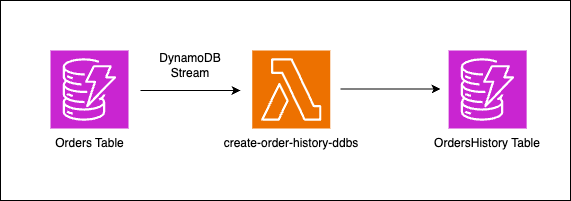
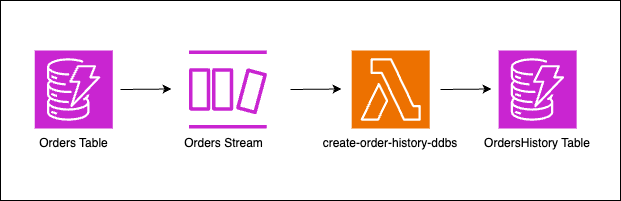
Applied updates following initial feedback.

Changed region(s): [[0.0298, 0.2388, 0.9527, 0.6567], [0.2977, 0.6866, 0.9527, 0.7463], [0.0595, 0.6866, 0.2382, 0.7463]]

diff --git a/content/change-data-capture/setup/aws-ws-event.en.md b/content/change-data-capture/setup/aws-ws-event.en.md
@@ -10,22 +10,27 @@ chapter: true
 1. If you are provided a one-click join link, skip to step 3.
 
 2. Visit [https://catalog.us-east-1.prod.workshops.aws](https://catalog.us-east-1.prod.workshops.aws). If you attended any other workshop earlier on this portal, please logout first. Click on **Get Started** on the right hand side of the window.
+
 ![Workshop Studio Landing Page](/static/images/aws-ws-event1.png)
 
 3. On the next, **Sign in** page, choose **Email One-Time Passcode (OTP)** to sign in to your workshop page.
+
 ![Sign in page](/static/images/aws-ws-event2.png)
 
 4. Provide an email address to receive a one-time passcode.
+
 ![Email address input](/static/images/aws-ws-event3.png)
 
 5. Enter the passcode that you received in the provided email address, and click **Sign in**.
 
 6. Next, in the textbox, enter the event access code (eg: abcd-012345-ef) that you received from the event facilitators. If you are provided a one-click join link, you will be redirected to the next step automatically.
+
 ![Event access code](/static/images/aws-ws-event4.png)
 
 7. Select on **I agree with the Terms and Conditions** on the bottom of the next page and click **Join event** to continue to the event dashboard.
 
 8. On the event dashboard, click on **Open AWS console** to federate into AWS Management Console in a new tab. On the same page, click **Get started** to open the workshop instructions.
+
 ![Event dashboard](/static/images/aws-ws-event5.png)
 
 Now that you are set up, continue on to: :link[2. Scenario Overview]{href="/change-data-capture/overview"}.

diff --git a/content/change-data-capture/setup/user-account.en.md b/content/change-data-capture/setup/user-account.en.md
@@ -10,6 +10,8 @@ chapter: true
 
 ## Create a Cloud9 Environment
 
+::alert[To complete the steps in these labs, you need an IAM role that has the privileges to create, update and delete AWS Cloud9 environments, Lambda functions, DynamoDB tables, IAM roles, Kinesis Data Streams and DynamoDB Streams]
+
 * Log into the AWS Management Console, go to the AWS Cloud9 service dashboard then select **Create environment**.
 
 ![Create Cloud9 environment](/static/images/change-data-capture/setup/cloud9-create-env.png)
@@ -25,5 +27,20 @@ chapter: true
 * Wait for creation of your Cloud9 environment to complete then select **Open** to launch your Cloud9 evironment.
 
 ![Launch Cloud9 environment](/static/images/change-data-capture/setup/cloud9-launch-env.png)
+
+Start a command line terminal in Cloud9 and set up the `Region` and `Account ID` environment variables.
+
+```bash
+export REGION={your aws region} &&
+export ACCOUNT_ID={your aws account ID}
+```
+
+Install jq on your AWS Cloud9 environment using the command below.
+
+```bash
+sudo yum install jq -y
+```
+
+::alert[*After completing the workshop, remember to complete the :link[Clean Up]{href="/change-data-capture/clean-up"} section to remove AWS resources that you no longer require.*]
 
 Now that your environment is set up, continue on to the :link[2. Scenario Overview]{href="/change-data-capture/overview"}.  

diff --git a/content/change-data-capture/ex2/simulate-order-updates.en.md b/content/change-data-capture/ex2/simulate-order-updates.en.md
@@ -356,4 +356,4 @@ Explore the items on the **Orders** and **OrdersHistory** tables to see the resu
 
 ![OrdersHistory Table Items](/static/images/change-data-capture/ex2/orders-history-two.png)
 
-::alert[_The order of updates to the Orders table is not preserved by Kinesis Data streams when changes are sent to the create order history lambda function. Hence if the order in which changes occur on the Orders table is important for your use case, DynamoDB Streams would be the preferred method to record changes from the Orders to the OrdersHistory table._]
+::alert[**Note:** The order of updates to the Orders table is not preserved by Kinesis Data streams when changes are sent to the create order history lambda function. If you need to record the sequence that updates were made to items on the Orders table, you can configure the precision of the ApproximateCreationDateTime for your Kinesis Data stream. Once this is done, stream records written to your Kinesis Data stream will have an approximate creation date time attribute that can be used to record the sequence of updates to items on the Orders table. See [How Kinesis Data Streams works with DynamoDB](https://docs.aws.amazon.com/amazondynamodb/latest/developerguide/kds.html#kds_howitworks) for more information on how it works.]

diff --git a/content/change-data-capture/overview/index.en.md b/content/change-data-capture/overview/index.en.md
@@ -5,11 +5,13 @@ weight: 5
 chapter: true
 ---
 
-Imagine you have an e-commerce website where customers place orders for different items. The website is backed by Amazon DynamoDB and you need to keep a record of all events that occur from the moment an order is placed until all items on the order are delivered to the customer.
+Imagine you have an e-commerce website where customers place orders for different items. The website relies on Amazon DynamoDB and it requires logging of all events from when an order is placed until the item delivered.
 
-Orders placed on your website can have one of the follow statuses - `ACTIVE`, `PLACED`, `COMPLETE` or `CANCELLED`; but you only want to keep the current view of customers' orders on the main database table used by your application.
+Website Requirements:
 
-Each order has a list containing one of more order items. Each order item also has a status attribute.
+* The status of orders placed on your website can be `ACTIVE`, `PLACED`, `COMPLETE` or `CANCELLED`.
+* You need to keep the current view of customers' orders on the main database table used by your application.
+* Each order as a `status` attribute and contains a list of one or more items.
 
 In JSON format, an item on the orders table has the following attributes.
 

diff --git a/content/change-data-capture/overview/create-tables.en.md b/content/change-data-capture/overview/create-tables.en.md
@@ -1,13 +1,22 @@
 ---
 title: "Create The DynamoDB Tables"
 date: 2023-12-01T00:00:00-00:00
-weight: 15
+weight: 10
 chapter: true
 ---
 
-Create the DynamoDB tables you will use during the labs for this workshop.
+In this section you create the DynamoDB tables you will use during the labs for this workshop.
 
-Copy the **create-table** commands below and paste them into your command terminal. Execute the commands to to create two tables named Orders and OrdersHistory.
+In the commands below, the **create-table** AWS CLI command is used to create two new tables called Orders and OrdersHistory.
+
+It will create the Orders table in provisioned capacity mode to have 5 read capacity units (RCU), 5 write capacity uints (WCU) and a partition key named `id`.
+
+It will also create the OrdersHistory table in provisioned capacity mode to have 5 RCU, 5 WCU, a partition key named `pk` and a sort key named `sk`.
+
+For convenience, the output of the CLI command is stored to a file called `output.log`.
+
+* Copy the **create-table** commands below and paste them into your command terminal. 
+* Execute the commands to to create two tables named Orders and OrdersHistory.
 
 ```bash
 aws dynamodb create-table \

diff --git a/content/change-data-capture/ex1/enable-ddb-streams.en.md b/content/change-data-capture/ex1/enable-ddb-streams.en.md
@@ -5,14 +5,14 @@ weight: 105
 chapter: true
 ---
 
-When enabling DynamoDB streams on a table, you can choose to record one of the following.
+When [enabling DynamoDB streams](https://docs.aws.amazon.com/amazondynamodb/latest/developerguide/Streams.html#Streams.Enabling) on a table, you can choose to record one of the following.
 
 * **Key attributes** only - the key attributes of the item being updated
 * **New image** - the new image of an item after it is updated
 * **Old image** - the original image of an item before it was updated
 * **New and old images** - the before and after image of an item following an update. 
 
-You will set the DynamoDB stream on the Orders table to only hold the image of an item before an update was performed.
+Since the requirement for this scenario is to retain only the current view of orders on the Orders table, you need to set the DynamoDB stream for the table to only hold the **old image** of items when updates are performed. The **new image** does not need to be written to the stream since it is not required.
 
 Enable DynamoDB streams on the Orders table by running the AWS CLI command below.
 

diff --git a/content/change-data-capture/index.en.md b/content/change-data-capture/index.en.md
@@ -4,7 +4,7 @@ chapter: true
 description: "200 level: Hands-on exercises with DynamoDB Streams and Kinesis Data Streams with Kinesis Analytics."
 weight: 2
 ---
-In this workshop, you will learn how to perform change data capture of item level changes on DynamoDB tables using [Amazon DynamoDB Streams](https://docs.aws.amazon.com/amazondynamodb/latest/developerguide/Streams.html) and [Amazon Kinesis Data Streams](https://docs.aws.amazon.com/amazondynamodb/latest/developerguide/kds.html). Using this technique, you can build event driven solutions that are triggered by item level changes to data you have stored on DynamoDB.
+In this workshop, you will learn how to perform change data capture of item level changes on DynamoDB tables using [Amazon DynamoDB Streams](https://docs.aws.amazon.com/amazondynamodb/latest/developerguide/Streams.html) and [Amazon Kinesis Data Streams](https://docs.aws.amazon.com/amazondynamodb/latest/developerguide/kds.html). This technique allows you to develop event-driven solutions that are initiated by alterations made to item-level data stored in DynamoDB.
 
 Here is what this workshop includes:
 

diff --git a/content/change-data-capture/ex2/index.en.md b/content/change-data-capture/ex2/index.en.md
@@ -5,7 +5,7 @@ weight: 15
 chapter: true
 ---
 
-Amazon Kinesis Data Streams can be used to collect and process large streams of data records from applications that produce streaming data in real-time. At a high level, data producers push data records to Amazon Kinesis Data Streams and consumers can read and process the data in real-time.
+[Amazon Kinesis Data Streams](https://docs.aws.amazon.com/amazondynamodb/latest/developerguide/kds.html) can be used to collect and process large streams of data records from applications that produce streaming data in real-time. At a high level, data producers push data records to Amazon Kinesis Data Streams and consumers can read and process the data in real-time.
 
 Data on Amazon Kinesis Data Streams is by default available for 24 hours after the data is written to the stream and the retention period can be increased to a maximum of 365 days.
 

diff --git a/content/change-data-capture/setup/index.en.md b/content/change-data-capture/setup/index.en.md
@@ -8,6 +8,15 @@ description: "Set up the lab environment."
 
 ## Getting Started
 
+To run this lab, you will need an AWS account, and a user identity with access to the following services:
+
+* Amazon DynamoDB
+* Amazon Kinesis
+* AWS Lambda
+* AWS Cloud9 Environment
+
+You can use your own account, or an account provided through Event Engine as part of an AWS organized workshop.  Using an account provided by Event Engine is the easier path, as you will have full access to all AWS services, and the account will terminate automatically when the event is over.
+
 To set up this workshop, choose one of the following links, depending on whether you are:
 - :link[Attending an AWS-hosted event (using AWS-provided access codes)]{href="/change-data-capture/setup/aws-ws-event/"}
 - :link[Running the workshop on your own (in your own account)]{href="/change-data-capture/setup/user-account/"}

diff --git a/content/change-data-capture/ex1/simulate-order-updates.en.md b/content/change-data-capture/ex1/simulate-order-updates.en.md
@@ -360,4 +360,4 @@ The status of order ID 4514280 on the Orders table should be **COMPLETE** as sho
 
 ![OrdersHistory Table Items](/static/images/change-data-capture/ex1/orders-history-two.png)
 
-::alert[_The order of updates to the Orders table is preserved by DynamoDB streams when changes are sent to the create order history lambda function. Hence, items on the OrdersHistory table can be sorted in the order that they were created._]
+::alert[**Note:** The order of updates to the Orders table is preserved by DynamoDB streams when changes are sent to the create order history lambda function. Since items on the OrdersHistory table have a sort key - sk, that is a timestamp, items on the OrderHistory table can be sorted in the order that they were created.]

diff --git a/content/change-data-capture/ex1/index.en.md b/content/change-data-capture/ex1/index.en.md
@@ -5,7 +5,7 @@ weight: 10
 chapter: true
 ---
 
-DynamoDB streams records a time ordered sequence of item level changes that occur on a DynamoDB table. Once enabled, information about all item level changes will be logged and stored for up to 24 hours.
+[DynamoDB streams](https://docs.aws.amazon.com/amazondynamodb/latest/developerguide/Streams.html) records a time ordered sequence of item level changes that occur on a DynamoDB table. Once enabled, information about all item level changes will be logged and stored for up to 24 hours.
 
 Changes to items on DynamoDB tables with streams enabled are captured in near real-time so the events can be used as triggers for event driven applications that consume data from your DynamoDB stream.
 

diff --git a/content/change-data-capture/ex1/create-lambda.en.md b/content/change-data-capture/ex1/create-lambda.en.md
@@ -80,3 +80,5 @@ This lambda function receives events from DynamoDB streams and writes new items 
 12. Deploy the code changes to your function by selecting **Deploy**.
 
 ![AWS Lambda function creation wizard](/static/images/change-data-capture/ex1/deploy-code.png)
+
+::alert[**Note**: Do not try to execute the lambda function you created yet. Additional configuration is required for the set up to work correctly. You will update your lambda function configuration in the next step.]
